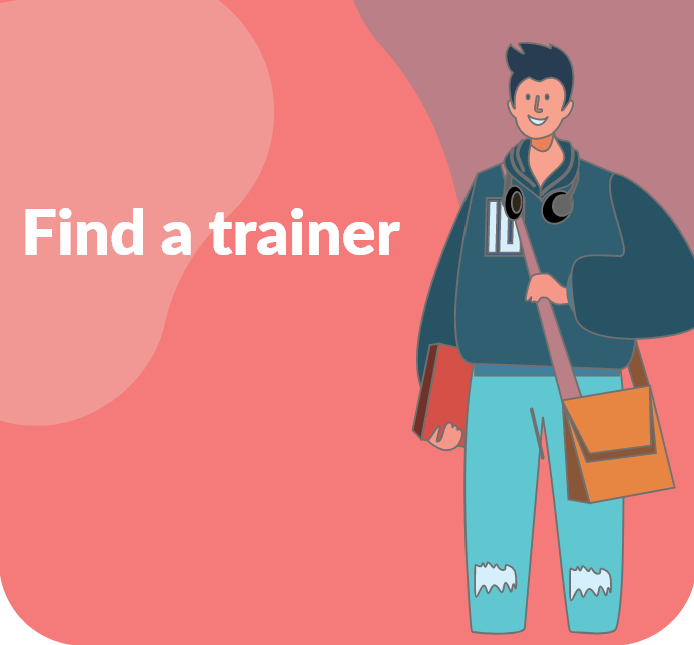
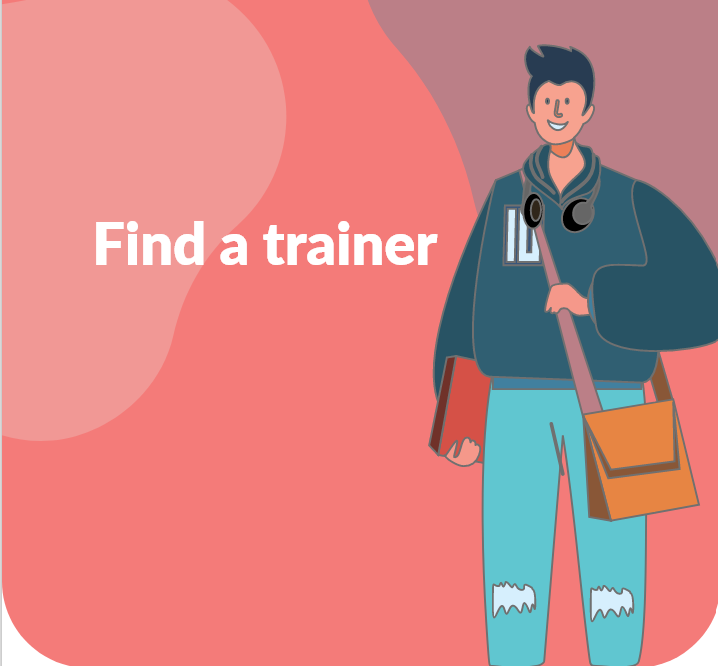
Fixed a probelm related to text pickers

diff --git a/screens/Trainee/Request.js b/screens/Trainee/Request.js
@@ -11,8 +11,11 @@ import LangAr from "../../lang/ar.json";
 import LangEn from "../../lang/en.json";
 import AorE from "../../lang/AorE";
 
+
 //The beginning of the class
 export default class Request extends Component {
+    timeBlank = AorE.A == true ? LangAr.TimeBlank : LangEn.TimeBlank;
+    dateBlank = AorE.A == true ? LangAr.DateBlank : LangEn.DateBlank;
     constructor(props) {
         super(props)
 
@@ -22,8 +25,8 @@ export default class Request extends Component {
             show: false,
             border: 0,
             place: " ",
-            time: AorE.A == true ? LangAr.TimeBlank : LangEn.TimeBlank,
-            date: AorE.A == true ? LangAr.DateBlank : LangEn.DateBlank
+            time: this.timeBlank,
+            date: this.dateBlank
         }
     }
 
@@ -36,8 +39,8 @@ export default class Request extends Component {
         }
     }
 
-     //Function used to set the choesn value in the box
-    setPlace= (value) => {
+    //Function used to set the choesn value in the box
+    setPlace = (value) => {
         this.setState({ place: value });
     }
 
@@ -57,16 +60,16 @@ export default class Request extends Component {
     checkTextInput = () => {
         //Check for the place TextInput
         if (this.state.place == " " && this.state.border == 0) {
-            alert(AorE.A == true ? LangAr.AlertPlace : LangEn.AlertAlertPlace);
+            alert(AorE.A == true ? LangAr.AlertPlace : LangEn.AlertPlace);
             return;
         }
         //Check for the time TextInput
-        if (this.state.time == AorE.A == true ? LangAr.TimeBlank : LangEn.TimeBlank) {
+        if (this.state.time == this.timeBlank) {
             alert(AorE.A == true ? LangAr.AlertTime : LangEn.AlertTime);
             return;
         }
         //Check for the date TextInput
-        if (this.state.date == AorE.A == true ? LangAr.DateBlank : LangEn.DateBlank) {
+        if (this.state.date == this.dateBlank) {
             alert(AorE.A == true ? LangAr.AlertDate : LangEn.AlertDate);
             return;
         }
@@ -113,11 +116,11 @@ export default class Request extends Component {
                         </View> : null}
                     <Text style={styles.label}>{AorE.A == true ? LangAr.Time : LangEn.Time}</Text>
                     <View style={styles.timeDateContainer}>
-                        <Time time={this.state.time} setTime={this.setTime}/>
+                        <Time time={this.state.time} setTime={this.setTime} />
                     </View>
                     <Text style={styles.label}>{AorE.A == true ? LangAr.Date : LangEn.Date}</Text>
                     <View style={styles.timeDateContainer}>
-                        <Date date={this.state.date} setDate={this.setDate}/>
+                        <Date date={this.state.date} setDate={this.setDate} />
                     </View>
                     <TouchableOpacity style={styles.paymentButton} onPress={this.checkTextInput}>
                         <Text style={styles.text2}>{AorE.A == true ? LangAr.ToPayment : LangEn.ToPayment}</Text>

diff --git a/screens/Trainee/BankCard.js b/screens/Trainee/BankCard.js
@@ -12,6 +12,8 @@ import AorE from "../../lang/AorE";
 
 //The beginning of the class
 export default class BankCard extends Component {
+    timeBlank = AorE.A == true ? LangAr.TimeBlank : LangEn.TimeBlank;
+    dateBlank = AorE.A == true ? LangAr.DateBlank : LangEn.DateBlank;
     constructor(props) {
         super(props)
 
@@ -24,8 +26,8 @@ export default class BankCard extends Component {
             name: "",
             number: "",
             bank: "",
-            date: AorE.A == true ? LangAr.DateBlank : LangEn.DateBlank ,
-            time: AorE.A == true ? LangAr.TimeBlank : LangEn.TimeBlank
+            date: this.dateBlank,
+            time: this.timeBlank
         }
     }
 
@@ -133,12 +135,12 @@ export default class BankCard extends Component {
             return;
         }
         //Check for the date TextInput
-        if (this.state.date == AorE.A == true ? LangAr.DateBlank : LangEn.DateBlank) {
+        if (this.state.date == this.dateBlank) {
             alert(AorE.A == true ? LangAr.AlertDate : LangEn.AlertDate);
             return;
         }
         //Check for the time TextInput
-        if (this.state.time == AorE.A == true ? LangAr.TimeBlank : LangEn.TimeBlank) {
+        if (this.state.time == this.timeBlank) {
             alert(AorE.A == true ? LangAr.AlertTime : LangEn.AlertTime);
             return;
         }

diff --git a/components/FindTrainer.js b/components/FindTrainer.js
@@ -21,7 +21,7 @@ export default class FindTrainer extends Component {
             <View style={styles.container}>
                 <Image
                     style={styles.imageStyle}
-                    source={AorE.A == true ? require("../assets/images/findTrainerA.jpg") : require("../assets/images/findTrainer.png")} />
+                    source={AorE.A == true ? require("../assets/images/findTrainerA.png") : require("../assets/images/findTrainer.png")} />
                 <Image
                     style={styles.imageboxStyle}
                     source={AorE.A == true ? require("../assets/images/matchmeA.png") : require("../assets/images/matchme.png")} />

diff --git a/components/ChatBox.js b/components/ChatBox.js
@@ -38,7 +38,7 @@ const styles = StyleSheet.create({
         borderWidth: 1,
         borderColor: "#808080",
         borderRadius: 10,
-        marginVertical: "2%"
+        marginTop: "3%"
     },
     text1: {
         color: "#70C1B3",

diff --git a/components/Subject.js b/components/Subject.js
@@ -54,6 +54,7 @@ const styles = StyleSheet.create({
         marginVertical: 20,
         borderRadius: 30,
         backgroundColor: "#FFF",
+        height: 50,
         width: 220,
         marginLeft: 10,
         alignItems: "stretch"

diff --git a/screens/Trainee/Home.js b/screens/Trainee/Home.js
@@ -47,7 +47,8 @@ export default class Home extends Component {
 //Declare the style
 const styles = StyleSheet.create({
   container: {
-    flex: 1
+    flex: 1,
+    backgroundColor: "#FFF",
   },
   label: {
     marginTop: 5,

diff --git a/screens/Trainee/ChatList.js b/screens/Trainee/ChatList.js
@@ -40,6 +40,6 @@ export default class ChatList extends Component {
 const styles = StyleSheet.create({
   container: {
     flex: 1,
-    paddingTop: Platform.OS === "android" ? 25 : 0,
+    paddingTop: 25 
   },
 });

diff --git a/components/Age.js b/components/Age.js
@@ -57,7 +57,7 @@ const styles = StyleSheet.create({
     },
     picker: {
         flex: 1,
-        marginLeft: "80%",
+        marginLeft: "95%",
         alignSelf: "center"
     }
 });
